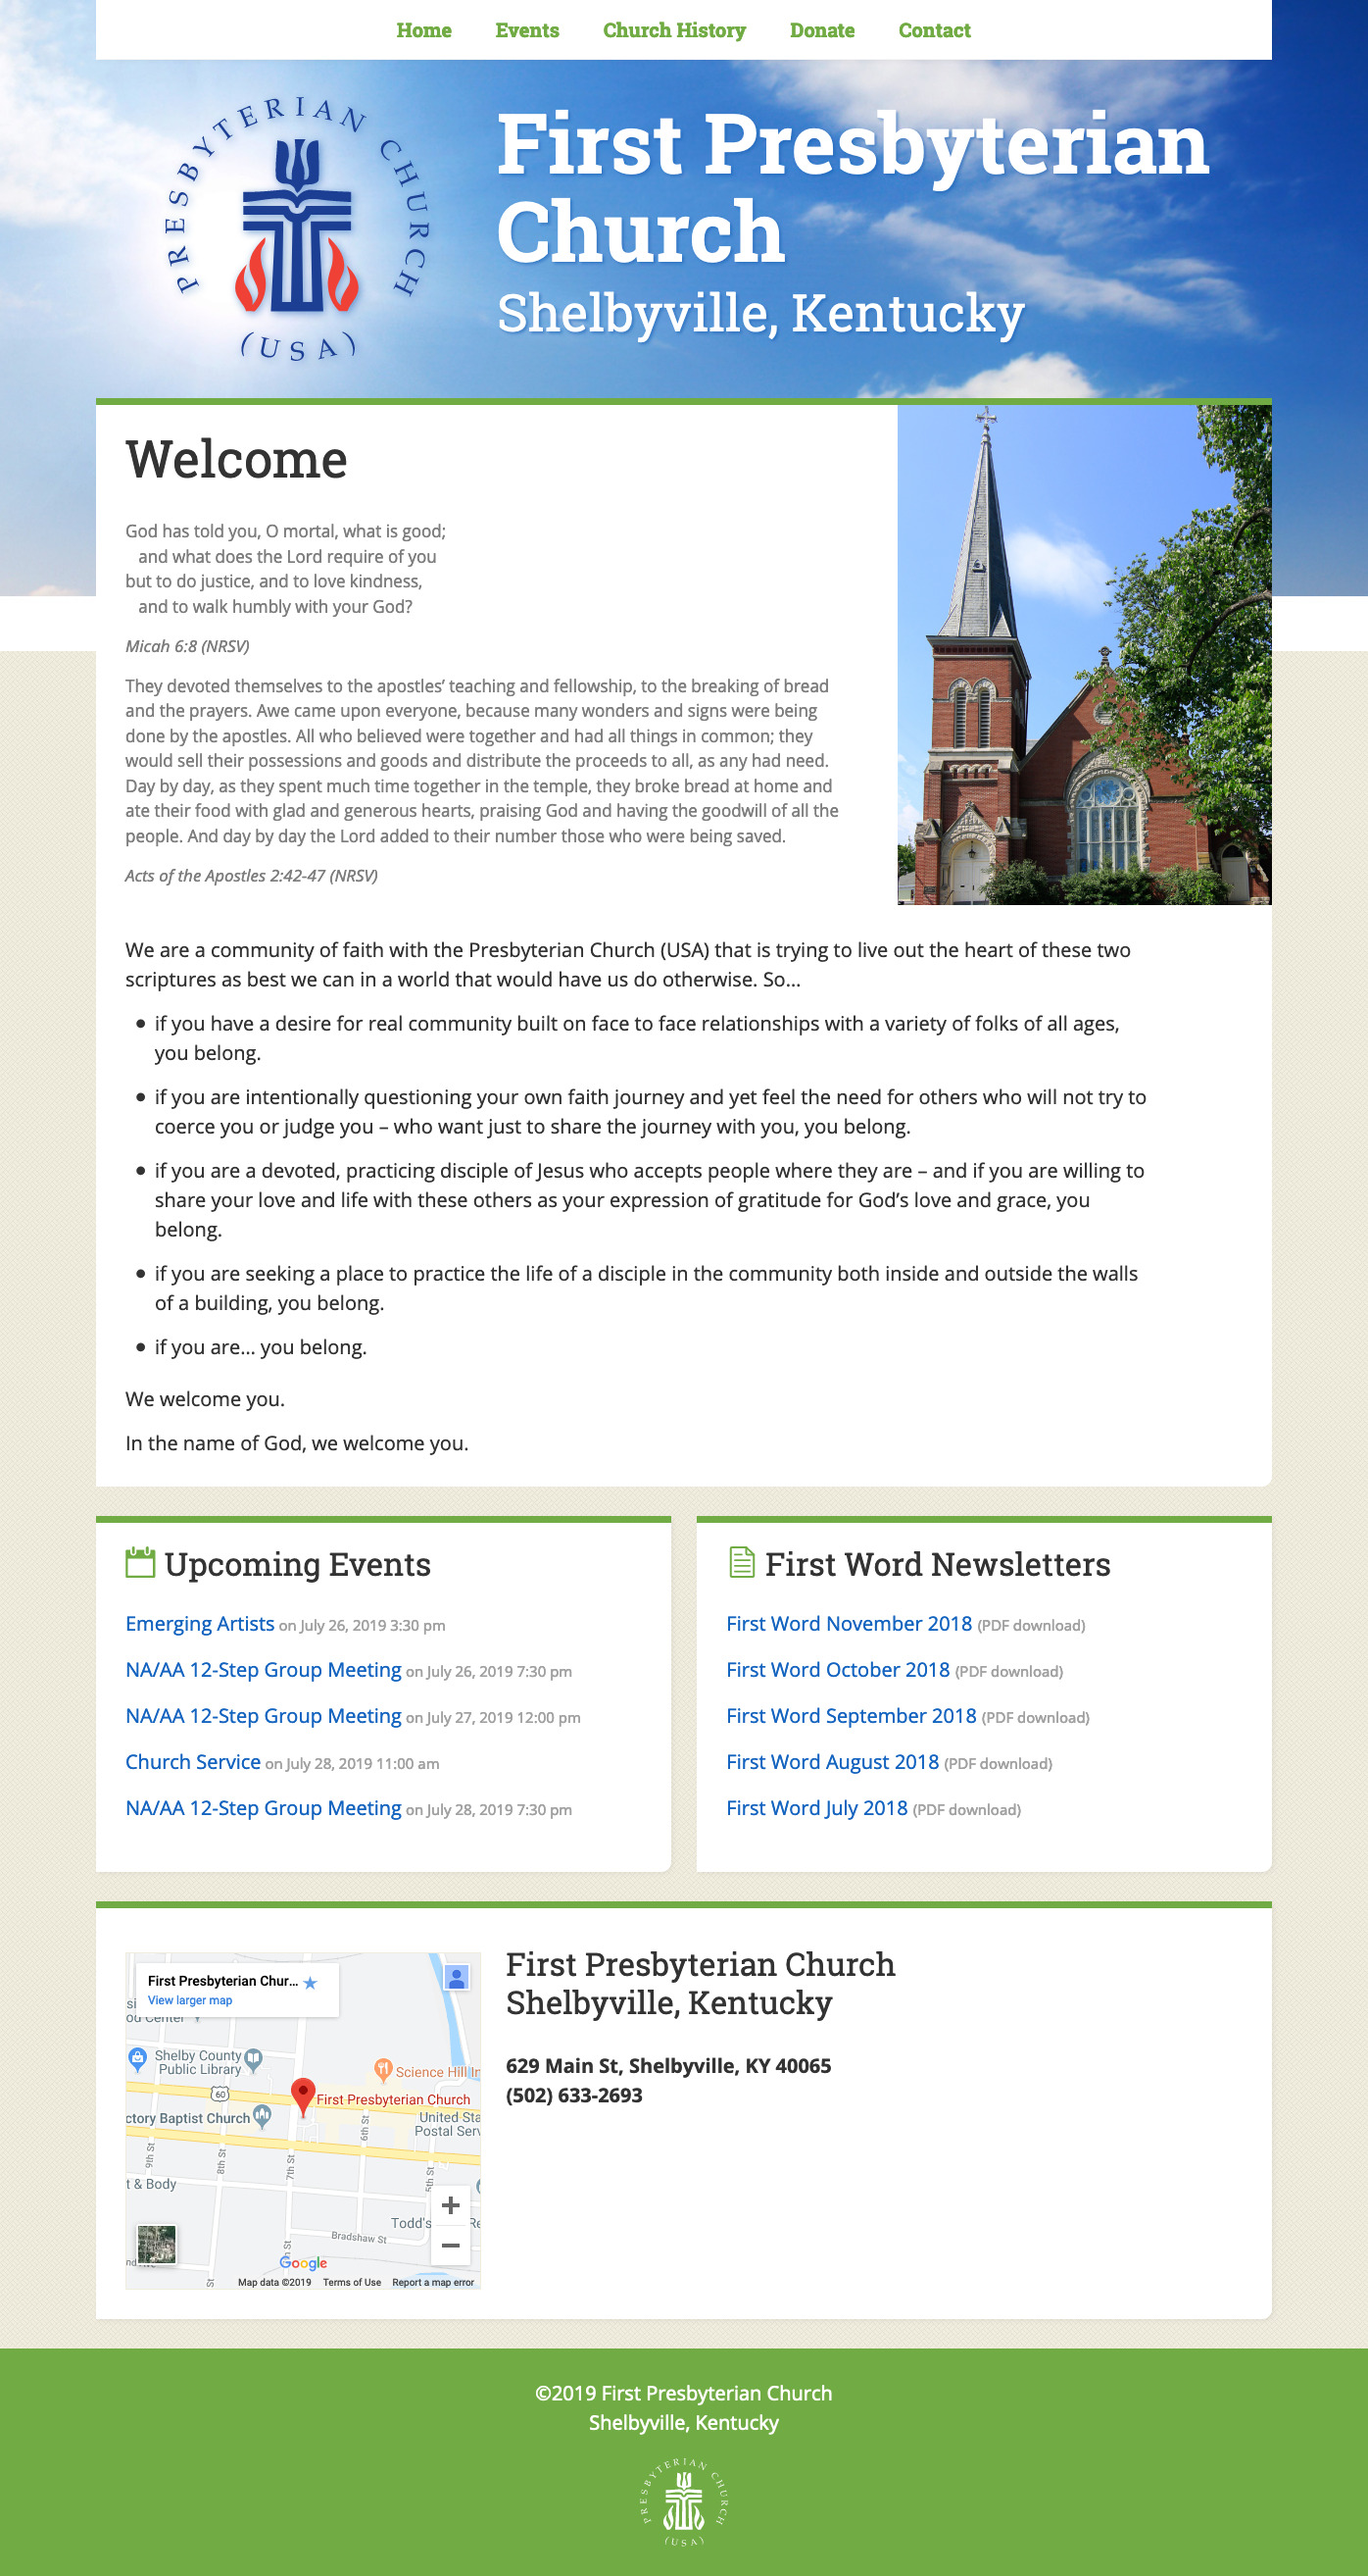
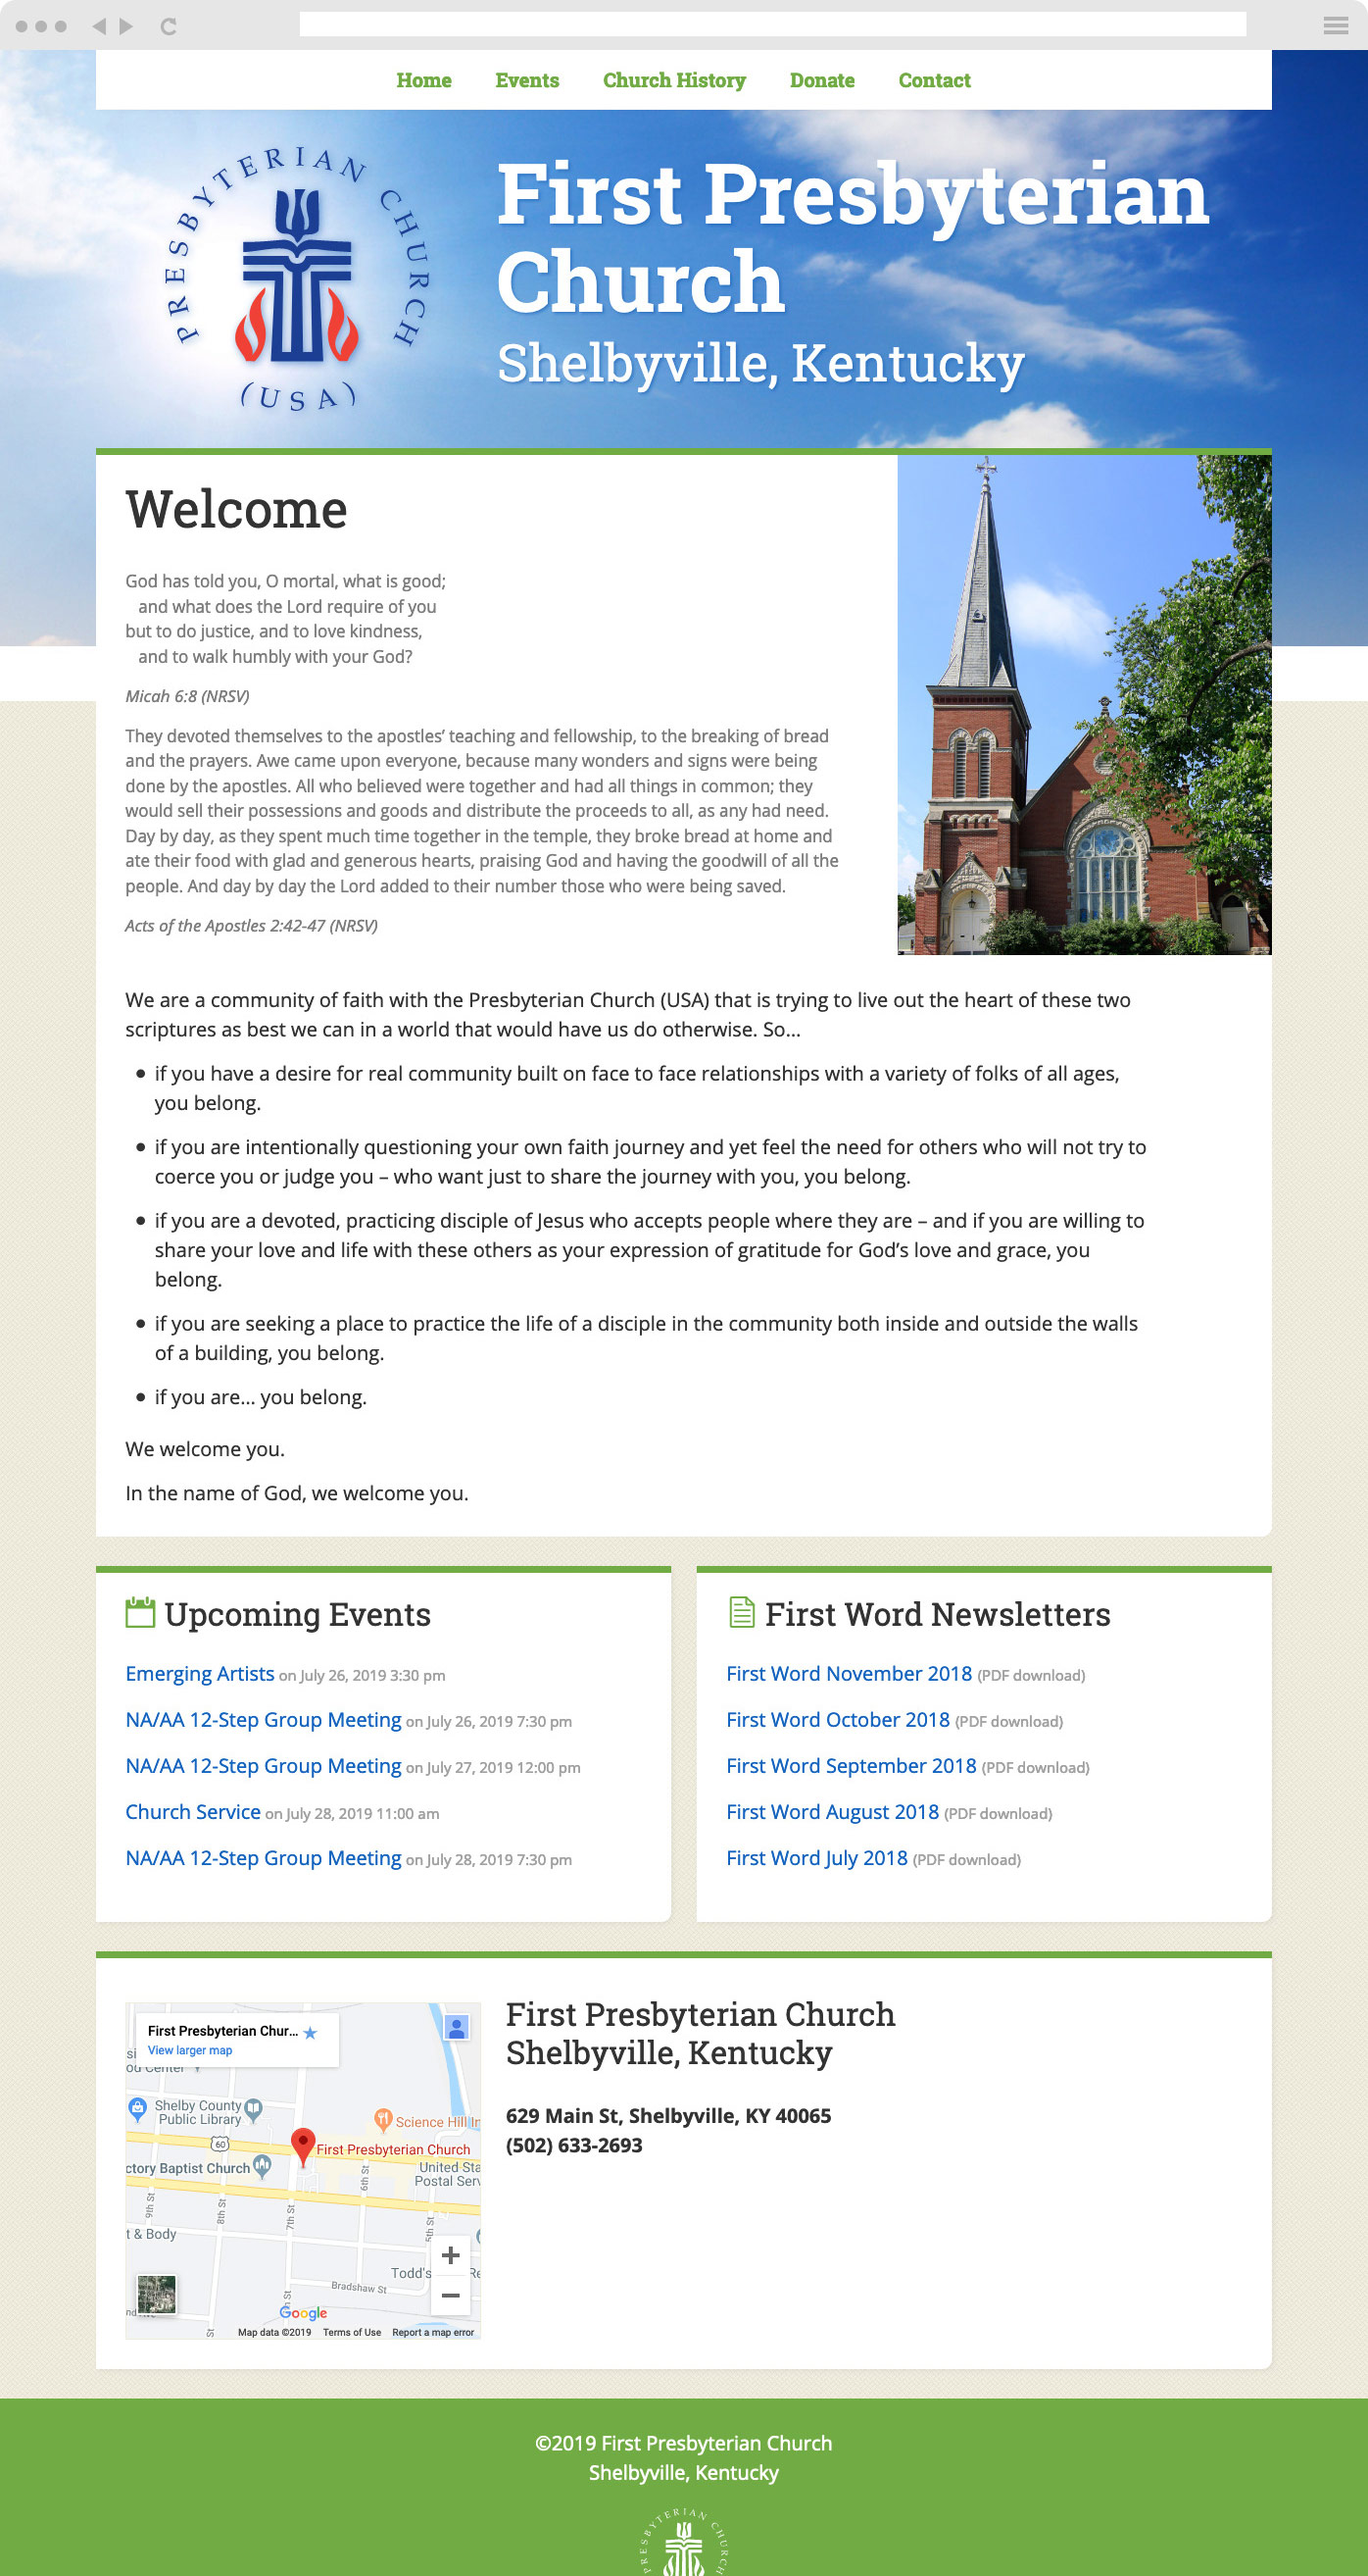
update images

Changed region(s): [[0.0, 0.0, 1.0, 1.0]]

diff --git a/src/components/styles-header.css b/src/components/styles-header.css
@@ -5,6 +5,7 @@
   z-index: 25;
   background: white;
   /*border-bottom: 1px solid rgba(255, 255, 255, 0.5);*/
+  border-bottom: 1px solid #eee;
   padding: 0.4em;
 }
 
@@ -23,18 +24,20 @@
 }
 
 .title {
-  color: black;
+  color: hsla(0, 0%, 0%, 0.8);
   margin-bottom: 0;
   padding-bottom: 0;
 }
 
 .title-desc {
+  color: hsla(0, 0%, 0%, 0.8);
   margin: 0;
   padding-left: 1em;
   font-size: 0.8em;
 }
 
 .title-menu {
+  color: hsla(0, 0%, 0%, 0.8);
   font-size: 0.8em;
   margin: 0;
   padding-left: 1em;

diff --git a/src/components/styles-content.css b/src/components/styles-content.css
@@ -103,7 +103,7 @@
   font-size: 0.9em;
   color: #848484;
   padding: 0 0 0.6em 0;
-  border-bottom: 1px dashed #848484;
+  border-bottom: 1px dashed #ccc;
 }
 
 .meta-list li svg {
@@ -133,6 +133,7 @@
 footer {
   border-top: 1px solid #eee;
   padding: 1em 0 1em;
+  background: #f8f8f8;
 }
 
 footer p {

diff --git a/src/markdown/nuxt-gaworkerscomp.md b/src/markdown/nuxt-gaworkerscomp.md
@@ -1,0 +1,21 @@
+---
+title: "Workers’ Compensation Website"
+date: "201907-26"
+thumbnailimage: "../images/thumbnails/thumbnail-wag.jpg"
+featuredimage: "../images/featuredimages/featured-image-gaworkers.jpg"
+desc: "An informational website for the Georgia Worker’s Compensation system, built with Nuxt.js. My client had an old, non responsive HTML web site that they wanted to update. The goal was for the updated site to have a pleasing, responsive design, be searchable, and be easy to update and add articles to. For this I chose Nuxt.js, a framework for Vue.js that allows for server-side rendering and rapid development. I created a simple Node/MongoDB backend and built an admin area for site administrators to add authors and articles to the site. To aid in rapid developing, I used the Bootstrap 4 framework for both the user-facing and administrative areas of the web site."
+url: "https://www.gaworkerscomp.com/"
+sourcecode: ""
+tag: "Vue"
+backgroundcolor: "#0b0b0b"
+skills:
+  [
+    { name: "UI/UX Design", type: "ux" },
+    { name: "Vue.js, Nuxt.js, JavaScript", type: "development" },
+    { name: "Full-Stack Development", type: "cms" },
+    { name: "Photoshop", type: "software" },
+  ]
+---
+
+![alt text](../images/screenshots/wag-home.jpg "The Wag")
+![alt text](../images/responsiveimages/responsive-images-wag.jpg "The Wag")

diff --git a/src/markdown/wordpress-wagsite.md b/src/markdown/wordpress-wagsite.md
@@ -17,5 +17,5 @@ skills:
   ]
 ---
 
-![alt text](../images/screenshots/wag-home.png "The Wag")
+![alt text](../images/screenshots/wag-home.jpg "The Wag")
 ![alt text](../images/responsiveimages/responsive-images-wag.jpg "The Wag")
